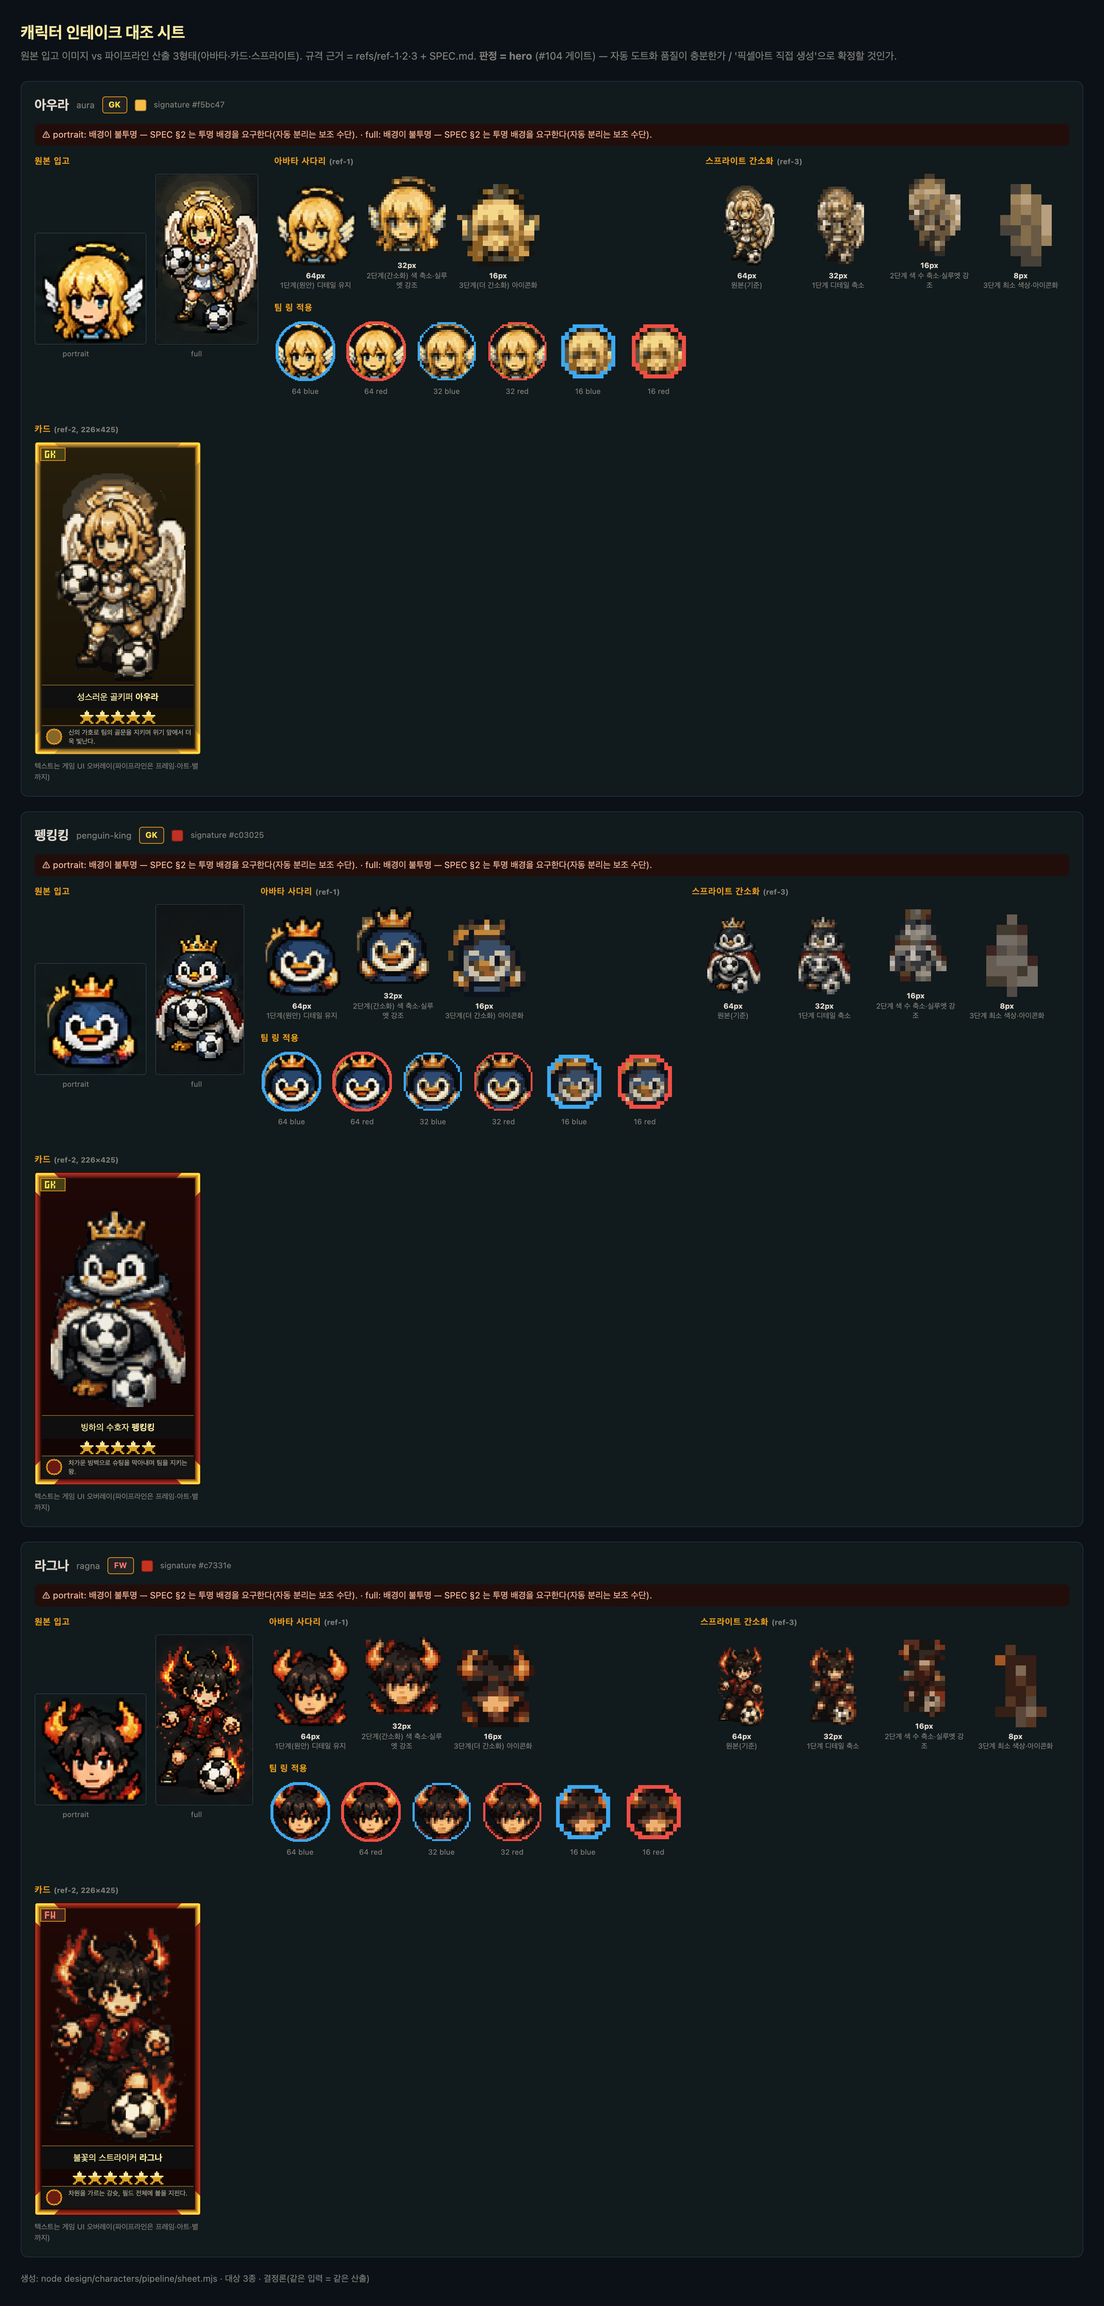
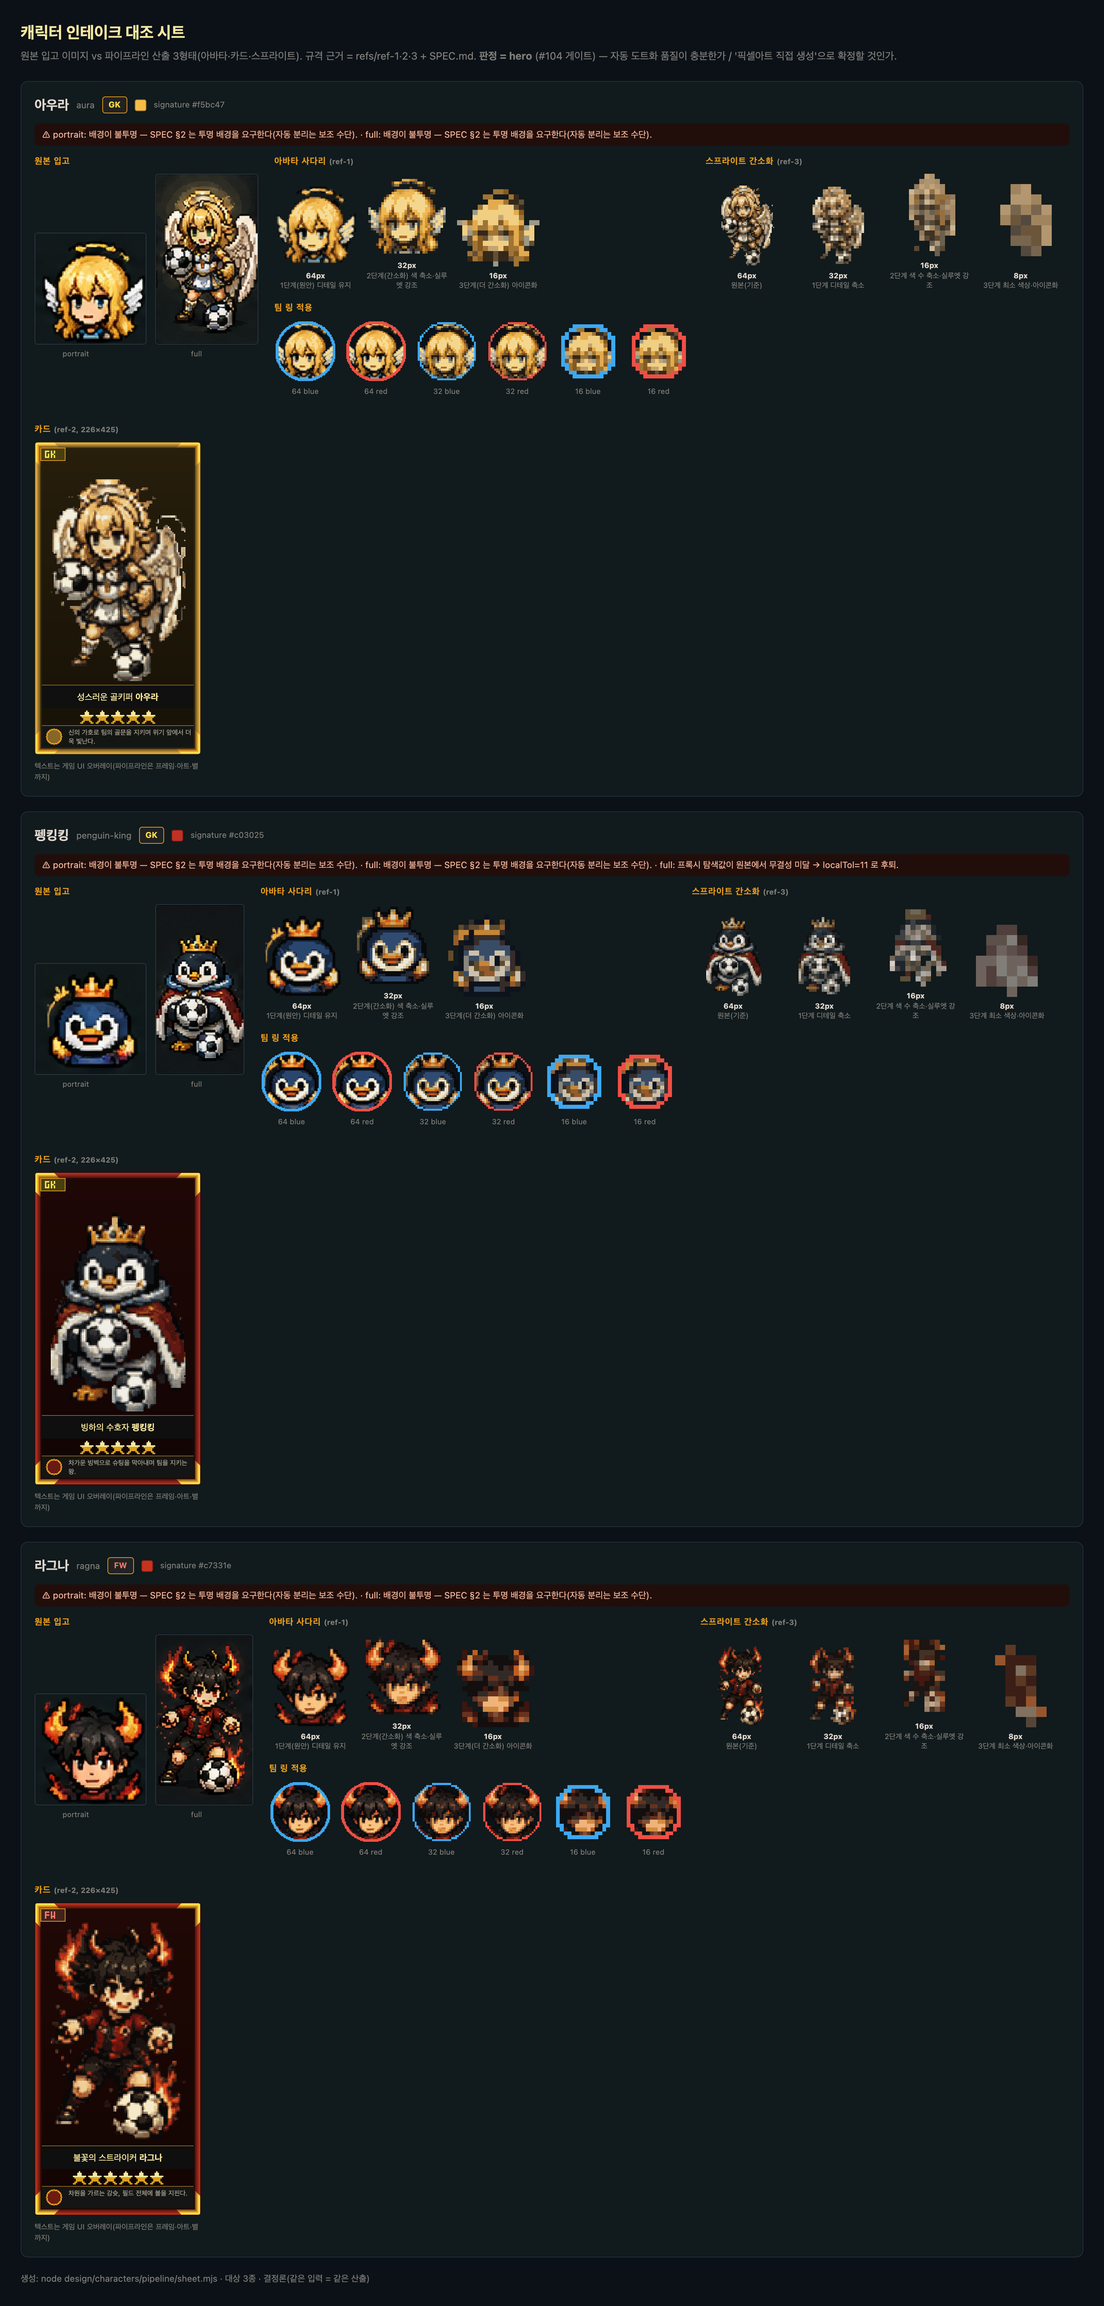
[Spider] fix(chars): 3차 검증 blocker — 배경제거를 명시적 최적화로 재설계 (#104)
3차 독립 검증 VERDICT: FAIL 대응. 지적이 또 옳았다.

BLOCKER-1 autoTol 이 최적점을 찾지 않았다 — 무릎 검출이 스윕 시작점
아티팩트를 반환(라그나 full = TOL_SWEEP[0]=4, 경계 포화). globalTol
축은 아예 스윕하지 않았다. 결과적으로 6장 중 4장이 배경을 대량
잔류시킨 채 출하됐다.

BLOCKER-2 largestShare 는 과소 제거를 원리적으로 검출 못 한다 —
잔류 배경은 캐릭터에 붙어 같은 연결요소로 병합돼 지표를 오히려
올린다. "6장 100% 보존"은 깨끗함의 증거가 아니었다(동어반복 게이트).

→ 휴리스틱을 버리고 명시적 최적화로 재설계:
  maximize 제거량 s.t. 최대덩어리>=0.98 AND 구멍 작음
  localTol x globalTol 2축 동시 탐색(320px 프록시, nearest).
  과잉 제거는 제약이, 과소 제거는 목적함수가 막는다.
  프록시 선택값을 원본 해상도에서 재검증하고 미달 시 후퇴
  (펭킹킹 full: 프록시 12 통과 -> 원본 96.2% -> 11 로 후퇴, 망토 복원).
  경계 포화/폴백/후퇴 전부 경고로 노출.

BLOCKER-3 PILOT-P2 v4 재작성 — v1/v2/v3 철회 이력 박제. 이번엔
수치가 아니라 6장 컷아웃을 마젠타 렌더로 육안 확인한 뒤 표를 썼다.
펭킹킹 16px 아바타는 확대 확인 결과 관대한 평가여서 ✅ -> △ 로 하향
(아바타 16px 명확한 성공 0/3).

non-blocker: bgTol variant 별 지정({portrait,full}) · 투명 배경 입력
에서 autoTol 조기 반환 · ref-3 "8x8" 범례 vs 실제 렌더 불일치 기록 ·
stars 1..6 축 SPEC 명시 · README shoot-sheet.mjs 등재.

measurements.json 좌표계 오류는 #103 에 실제 레이즈 완료
(issue #103 comment 5016490989) — 그쪽 소유 파일이라 수정 안 함.

diff --git a/design/characters/PILOT-P2.md b/design/characters/PILOT-P2.md
@@ -1,19 +1,25 @@
 # P2 파일럿 결과 — 자동 변환 품질 실측 (#104)
 
-**일자** 2026-07-20 (v3 — 독립 검증 2회 FAIL 후 재작성) · **대상** 라그나(FW) · 아우라(GK) · 펭킹킹(GK)
+**일자** 2026-07-20 (v4 — 독립 검증 3회 FAIL 후 재작성) · **대상** 라그나(FW) · 아우라(GK) · 펭킹킹(GK)
 **증빙** `contact-sheet.png` · 산출 42개(`out/<id>/`) · **판정 주체 = hero**
 
 > ## 철회 이력 (읽고 시작할 것)
-> 이 문서는 **두 번 틀렸다.** 둘 다 독립 검증이 잡았다.
+> 이 문서는 **세 번 틀렸다.** 셋 다 독립 검증이 잡았다. 같은 실패 패턴이 반복됐다 —
+> **파라미터 공간을 덜 훑고 결론을 단정**했다.
 >
 > - **v1**: "≤16px 은 3종 모두 붕괴 → 저해상 자동화는 원리적으로 불가"
 >   → **오귀속**. 붕괴의 주원인은 도트화가 아니라 **배경 제거 손상**이었다. 철회.
 > - **v2**: "어두운 배경×어두운 캐릭터는 **어떤 설정으로도** 분리 불가, 해결책 없음"
->   → **거짓**. 같은 알고리즘에서 `localTol` 하나만 낮추면(14 → 8) 3종 전부 **100% 보존**된다.
->   v2 는 tolerance 10/14/20 만 스윕하고 그 아래를 보지 않은 채 "불가능"을 결론냈다. 철회.
+>   → **거짓**. tolerance 10/14/20 만 보고 그 아래를 안 봤다. `localTol=8` 이면 3종 전부 보존된다. 철회.
+> - **v3**: 무릎 검출 자동선택 도입 → **최적점을 찾지 않았다**. 라그나 full 은 스윕 배열의
+>   첫 원소(4)를 그대로 반환했고(경계 포화), 결과적으로 **배경이 대량 잔류**한 채 출하됐다.
+>   원인은 지표: `largestShare` 는 **과잉 제거만** 잡고 **과소 제거(배경 잔류)는 못 잡는다** —
+>   잔류 배경은 캐릭터에 붙어 같은 덩어리로 병합돼 오히려 지표를 올린다. 철회.
 >
-> **원인**: 파라미터 한 축을 충분히 훑지 않고 불가능성을 주장했다. 지금은 tolerance 를
-> **자동 선택**(무릎 검출)하도록 바꿔 이 실수 자체가 재발하지 않게 했다(§2).
+> **현재(v4)**: 무릎 휴리스틱을 버리고 **명시적 최적화**로 바꿨다 —
+> `maximize 제거량 s.t. 무결성 ≥ 0.98`, `localTol`·`globalTol` **2축 동시 탐색**,
+> 프록시 탐색값을 **원본 해상도에서 재검증·후퇴**, 경계 포화 시 경고(§2).
+> 그리고 이번엔 수치가 아니라 **컷아웃을 마젠타 렌더로 육안 확인**한 뒤 이 표를 썼다.
 
 ---
 
@@ -23,26 +29,31 @@
 배경은 **불투명 다크 패널**이라 SPEC.md §2 의 투명 배경 요구를 만족하지 못한다 —
 즉 배경 분리 난이도는 높고, 도트화 난이도는 낮은(이미 도트라) 혼합 조건이다.
 
-## 2. ① 배경 분리 — **자동 분리 가능**. 단 tolerance 가 절벽이다
+## 2. ① 배경 분리 — **자동 분리 가능**. 단 파라미터를 최적화해야 한다
 
-`localTol` 은 **절벽 파라미터**다. 낮으면 배경이 남고, 넘으면 캐릭터를 급격히 먹는다.
-그 절벽 위치가 **소스마다 다르다**:
+`localTol`(지역 기울기 임계)과 `globalTol`(시드색 이탈 허용)의 **2축 조합**이 결과를 지배한다.
+안전 구간이 소스마다 다르고, 한 축만 고정하면 다른 축의 더 나은 값을 영영 못 찾는다(v3 실패 원인).
 
-| localTol | 라그나 portrait 최대덩어리 | 판정 |
+**선택 규칙 = 명시적 최적화**: `maximize 배경제거량  s.t. 최대덩어리 ≥ 0.98 ∧ 내부구멍 작음`.
+과잉 제거는 무결성 제약이, **과소 제거는 목적함수(제거량 최대화)** 가 막는다 —
+`largestShare` 단독으로는 잔류 배경을 검출할 수 없기 때문이다(v3 가 여기서 무너졌다).
+
+자동 선택 결과(프록시 탐색 → 원본 재검증):
+
+| 이미지 | localTol / globalTol | 최대덩어리 |
 |---|---|---|
-| 6 | 100% | 안전 |
-| **8** | **100%** | 안전(무릎) |
-| 10 | 74% | 잠식 시작 |
-| 14 (v2 출하값) | **40%** | 심각한 훼손 |
+| 라그나 portrait | 9 / 40 | 99.7% |
+| 라그나 full | 8 / 60 | 98.3% |
+| 아우라 portrait | 11 / 60 | 99.8% |
+| 아우라 full | 24 / 255 | 98.1% |
+| 펭킹킹 portrait | 8 / 40 | 100% |
+| 펭킹킹 full | 11 / 40 (프록시 12 에서 후퇴) | 99.0% |
 
-→ 고정 기본값은 위험하다. **무릎 검출로 tolerance 를 자동 선택**하도록 바꿨다(`autoTol`).
-자동 선택 결과: 라그나 portrait 8 / full 4, 아우라 7 / 6, 펭킹킹 8 / 8 — **6장 전부 최대덩어리 100%**.
+**육안 증빙**: 6장 전부 투명 픽셀을 마젠타로 칠해 렌더해 확인했다 — 배경 제거 완료, 캐릭터 온전
+(라그나 다리·공, 아우라 후광·날개, 펭킹킹 망토 포함). 수치만으로는 판단하지 않았다.
 
-남는 검출 장치: 파편화(흩어진 손실) + 내부 구멍. 연속적 손실은 이 지표로 안 잡히므로
-**tolerance 자동 선택이 1차 방어**다.
-
-> **SPEC §2 의 투명 배경 요구는 유지한다.** 다만 근거는 "자동 분리가 불가능해서"가 아니라
-> **"자동 분리는 소스 의존적이고 절벽이 있어서"** 다. 투명 배경이면 이 문제가 아예 없다.
+> **SPEC §2 의 투명 배경 요구는 유지한다.** 근거는 "불가능해서"가 아니라
+> **"자동 분리는 소스마다 최적 파라미터가 다르고 안전 구간이 좁아서"** 다. 투명 배경이면 이 위험이 없다.
 
 ## 3. ② 도트화 — 깨끗한 컷아웃 3종 기준
 
@@ -51,20 +62,25 @@
 | **카드 (ref-2)** | ✅ | ✅ | ✅ | **양호 (3/3)** |
 | 아바타 64px | ✅ | ✅ | ✅ | **양호 (3/3)** |
 | 아바타 32px | ✅ | ✅ | ✅ | **양호 (3/3)** |
-| **아바타 16px** | ❌ | ❌ | ✅ | **1/3** — 소스에 따라 갈림 |
+| **아바타 16px** | ❌ | ❌ | **△ 경계** | **명확한 성공 0/3** |
 | 스프라이트 64/32px | ✅ | ✅ | ✅ | **양호 (3/3)** |
 | **스프라이트 16/8px** | ❌ | ❌ | ❌ | **실패 (0/3)** |
 
 **결정 변수는 해상도가 아니라 실루엣 단순성과 색 대비다.**
-펭킹킹만 16px 아바타에서 살아남는다(왕관·파란 몸통·흰 얼굴·주황 부리 = 굵은 블록 + 고대비).
-아우라(섬세한 얼굴·비슷한 명도의 금발/날개)와 라그나(검은 머리 + 어두운 복장)는 무너진다.
+펭킹킹 16px 아바타는 왕관 실루엣과 파랑/흰 대비 덕에 "무엇인지 짐작은 되지만" 얼굴 디테일은 뭉갠다 —
+**△(경계)** 로 낮춰 적는다(v3 은 이걸 ✅ 로 적었으나 확대해 보면 관대한 평가였다).
+아우라(섬세한 얼굴·비슷한 명도의 금발/날개)와 라그나(검은 머리 + 어두운 복장)는 명확히 무너진다.
 전신 스프라이트는 담을 정보가 많아 ≤16px 에서 3종 모두 실패.
 
-## 4. 검증으로 고친 것 (2라운드 누적)
+> **8px 단계 주의**: ref-3 범례는 "3단계 ≈ 8×8" 이라 적었지만 **레퍼 자신의 렌더는 60~90px 급**이다.
+> 즉 레퍼가 리터럴 8×8 을 제시한 적이 없다. "스프라이트 8px 실패"는 파이프라인 한계이기 이전에
+> **규격 해석 문제**일 수 있다 — 8px 단계가 실제로 필요한지 hero 확인 필요.
+
+## 4. 검증으로 고친 것 (3라운드 누적)
 
 | 발견 | 조치 |
 |---|---|
-| **배경 제거 tolerance 고정값이 캐릭터를 파괴** | 무릎 검출 **자동 선택**(`autoTol`) + 파편화·구멍 검출 게이트. `incoming/<id>.json` 의 `bgTol` 로 강제 가능 |
+| **배경 제거 파라미터가 캐릭터를 파괴(과잉) / 배경을 잔류(과소)** | **2축 최적화 선택**(`autoTol`: localTol×globalTol, 제거량 최대화 s.t. 무결성) + 프록시→원본 재검증 후퇴 + 경계 포화 경고. `incoming/<id>.json` 의 `bgTol`(숫자 또는 `{portrait,full}`)로 강제 가능 |
 | 전역 tolerance flood fill 은 그라디언트 배경에 취약 | **지역 기울기 영역확장**으로 교체 |
 | 입고 검증 임계가 SPEC 의 절반(256/512) | SPEC 값(512×512 / 512×1024) + 정사각·1:2 비율 검증 |
 | 카드 프레임이 ref-2 대비 ~2배 두꺼움 | ref-2 재실측 → 인셋 17px → **10px** |
@@ -84,18 +100,19 @@
 - **시그니처 자동 추출은 "면적 최대 채도색"** 이라 테마색과 어긋난다. 3종 중 **2종 불일치**:
   펭킹킹 `#c03025`(빨간 망토, 테마는 빙하 `#326e8a`), 라그나 `#c7331e`(레퍼 `#f7a051`). 아우라만 일치.
   → **`incoming/<id>.json` 에 `signature`/`frame` 명시 권장**, 자동은 폴백.
-- **≤16px 은 소스 의존적**이라 자동 산출을 신뢰할 수 없다(3종 중 1종만 성공).
+- **≤16px 은 소스 의존적**이라 자동 산출을 신뢰할 수 없다(명확한 성공 0/3, 경계 1종).
 - **모든 규격 위반이 경고일 뿐 거부가 아니다** — 손상 산출물도 `out/` 에 남는다. 게이트는 hero 가 시트로 본다.
 - **비-PNG 입력은 macOS `sips` 의존** — 결정론·이식성 미보증(PNG 경로만 검증).
 - **레퍼 실측치 충돌**: `measurements.ref103.json` 의 `ref2_frame_scan_y300` 은 절대좌표에 카드 밖 글로우를
   포함해 금테가 과대 측정돼 있고, `row_y:105` 도 재실측(y≈111~114)과 어긋난다.
-  → **#103 에 이슈 레이즈 필요**(그쪽 소유 파일이라 수정하지 않았다).
+  → **#103 에 레이즈 완료** (issue #103 comment 5016490989) — 그쪽 소유 파일이라 수정하지 않았다.
 
 ## 6. 권고 (hero 판정 대기)
 
 1. **32px 이상 + 카드는 자동 파이프라인으로 충분** — 3/3 통과. 그대로 간다.
-2. **≤16px 은 hero 직접 생성/손보정 슬롯 권장** — `incoming/<id>__avatar16.png` 오버라이드로 받고
-   없으면 자동 폴백(미구현, 승인 시 P3).
+2. **≤16px 은 hero 직접 생성/손보정 슬롯 권장** — 명확한 자동 성공이 0/3 이다.
+   `incoming/<id>__avatar16.png` 오버라이드로 받고 없으면 자동 폴백(미구현, 승인 시 P3).
+   **8px 단계가 실제로 필요한지도 함께 확인 필요**(위 §3 주의 참조).
 3. **SPEC §2 투명 배경 유지** — 자동 분리는 가능하지만 소스 의존적이고 절벽이 있다. 투명이면 무위험.
 4. **A안(픽셀아트 직접 생성) 권장 유지** — 저해상까지 신뢰하려면 직접 생성이 안전.
 5. **재파일럿 권장**: 도트화 결론은 표본 3종이고, 전부 *이미 픽셀아트*인 소스다.

diff --git a/design/characters/SPEC.md b/design/characters/SPEC.md
@@ -38,9 +38,9 @@
 | 그림자/글로우 | **바닥 그림자·외곽 글로우 없이**. 오라 이펙트는 카드 합성 단계에서 넣는다 | 배경 제거·실루엣 추출 오염 |
 | 압축 | 업스케일러/후처리로 인한 뭉개짐·JPEG 아티팩트 금지 | 양자화 노이즈 |
 
-> ⚠ **왜 투명 배경인가.** 불투명 배경도 파이프라인이 자동 분리하지만, 분리 임계값이 **절벽**이다 —
-> 낮으면 배경이 남고 조금만 넘으면 캐릭터의 어두운 머리·의상을 먹는다. 절벽 위치가 **소스마다 달라서**
-> (P2 파일럿: 라그나 8, 아우라 6) 파이프라인이 매번 자동 탐색한다. 투명 배경이면 이 위험이 아예 없다.
+> ⚠ **왜 투명 배경인가.** 불투명 배경도 파이프라인이 자동 분리하지만, 안전 구간이 좁고 **소스마다 다르다**
+> (P2 파일럿 자동 선택값: localTol 8~24 / globalTol 40~255 로 제각각). 낮으면 배경이 남고 조금만 넘으면
+> 캐릭터의 어두운 머리·의상을 먹는다. 파이프라인이 매번 2축 탐색하지만, 투명 배경이면 이 위험이 아예 없다.
 > 또 AI 생성기는 대부분 경계에 안티에일리어싱을 넣는데, **단색 배경 + AA 는 캐릭터 외곽에 배경색 프린지**를 남긴다.
 
 ### 네이밍
@@ -62,12 +62,15 @@
   "title": "불꽃의 스트라이커",
   "position": "FW",
   "stars": 5,
+  "bgTol": 8,
   "signature": "#f7a051",
   "frame": "#c82813",
   "desc": "차원을 가르는 강슛, 필드 전체에 볼을 지핀다."
 }
 ```
 - `position` ∈ `FW`(빨강) `MF`(초록) `DF`(파랑) `GK`(금) — **ref-2 legend 채택**(축구 관례). ref-3 badge 는 MF/DF 가 뒤집혀 있어 conflict, hero 확인 전엔 ref-2 기준.
+- `bgTol`(선택) = 배경 제거 임계 강제. 숫자면 양쪽 공통, `{"portrait":9,"full":8}` 로 개별 지정. 미지정 시 자동 탐색.
+- `stars` = 별 개수(1~6). ref-2 라그나가 6성이라 6까지 받는다 — PRD 의 "5등급"과는 별개 축.
 - `signature`/`frame` 미지정 시 파이프라인이 아트에서 지배색을 추출해 채운다. **다만 자동 추출은 "면적이 가장 넓은 채도색"이라 테마색과 어긋날 수 있다**(파일럿: 펭킹킹→빨간 망토 `#c03025`, 테마는 빙하 `#326e8a`). → **명시 권장**, 자동은 폴백.
 
 ---
@@ -95,9 +98,9 @@
 - **A안 (권장)**: 처음부터 픽셀아트 스타일로 생성 → 파이프라인은 **배경정리 + 리사이즈 + 단계별 색 축소**만 담당(변환 손실 최소).
 - **B안 (대안)**: 일반 일러스트 생성 → 파이프라인이 도트화.
 
-> **P2 파일럿 실측 결과(`PILOT-P2.md`, 2026-07-20)**: **32px 이상 + 카드는 자동 변환으로 충분**하다.
-> **≤16px 은 소스에 따라 갈린다** — 굵은 실루엣·고대비(펭킹킹)는 16px 에서 살아남고, 섬세한 얼굴(아우라)은 무너진다.
-> 전신 스프라이트는 ≤16px 에서 실패한다. 결정 변수는 해상도가 아니라 **실루엣 단순성과 색 대비**다.
+> **P2 파일럿 실측 결과(`PILOT-P2.md`, 2026-07-20)**: **32px 이상 + 카드는 자동 변환으로 충분**(3/3).
+> **≤16px 은 명확한 자동 성공이 0/3** — 펭킹킹만 경계(△)이고 나머지는 무너진다.
+> 전신 스프라이트는 ≤16px 에서 3/3 실패. 결정 변수는 해상도가 아니라 **실루엣 단순성과 색 대비**다.
 > → **A안 권장**(저해상까지 신뢰하려면 직접 생성이 안전). 저해상 단계는 hero 손보정 슬롯 검토 중. hero 판정 대기(#104).
 
 ### 프롬프트 템플릿 (A안)
@@ -150,7 +153,7 @@ no ground shadow, no glow, no background scenery, centered
 
 ## 6. 체크리스트 (입고 전 hero 자가확인)
 
-- [ ] PNG, 배경 투명(또는 단색 마젠타/화이트)
+- [ ] PNG, 배경 투명(또는 캐릭터에 없는 단색 + AA 없는 하드 엣지)
 - [ ] portrait 정사각 512+ / full 세로 512×1024+
 - [ ] 머리 장식 안 잘림, 사방 여백 5~10%
 - [ ] full 에 축구공 1개, 정면 액션 포즈

diff --git a/design/characters/README.md b/design/characters/README.md
@@ -9,6 +9,7 @@ contact-sheet.png 대조 시트 증빙 (hero 게이트 제출물)
 pipeline/        인제스트 스크립트 (node, 외부 의존 0, 결정론)
   ingest.mjs       incoming/ → out/ 3형태 산출
   sheet.mjs        out/ → contact-sheet.html
+  shoot-sheet.mjs  contact-sheet.html → contact-sheet.png (게이트 제출물)
   pilot-crop.mjs   레퍼에서 파일럿 입력 크롭 (파일럿 전용)
   lib/             png(코덱) · img(연산) · quantize(양자화) · card(프레임 합성)
 refs/            레퍼 3장 사본 (gitignore — 아래 참조)
@@ -23,6 +24,7 @@ out/             산출물 (gitignore — 재생성 가능)
 #    <charId>__portrait.png / <charId>__full.png  (+ 선택 <charId>.json)
 node design/characters/pipeline/ingest.mjs      # 3형태 산출 → out/<charId>/
 node design/characters/pipeline/sheet.mjs       # 대조 시트 → contact-sheet.html
+node design/characters/pipeline/shoot-sheet.mjs # 시트 PNG (playwright 필요, PLAYWRIGHT_PATH 로 경로 지정 가능)
 # 2) 시트를 #104 에 올려 hero 승인 게이트
 ```
 
